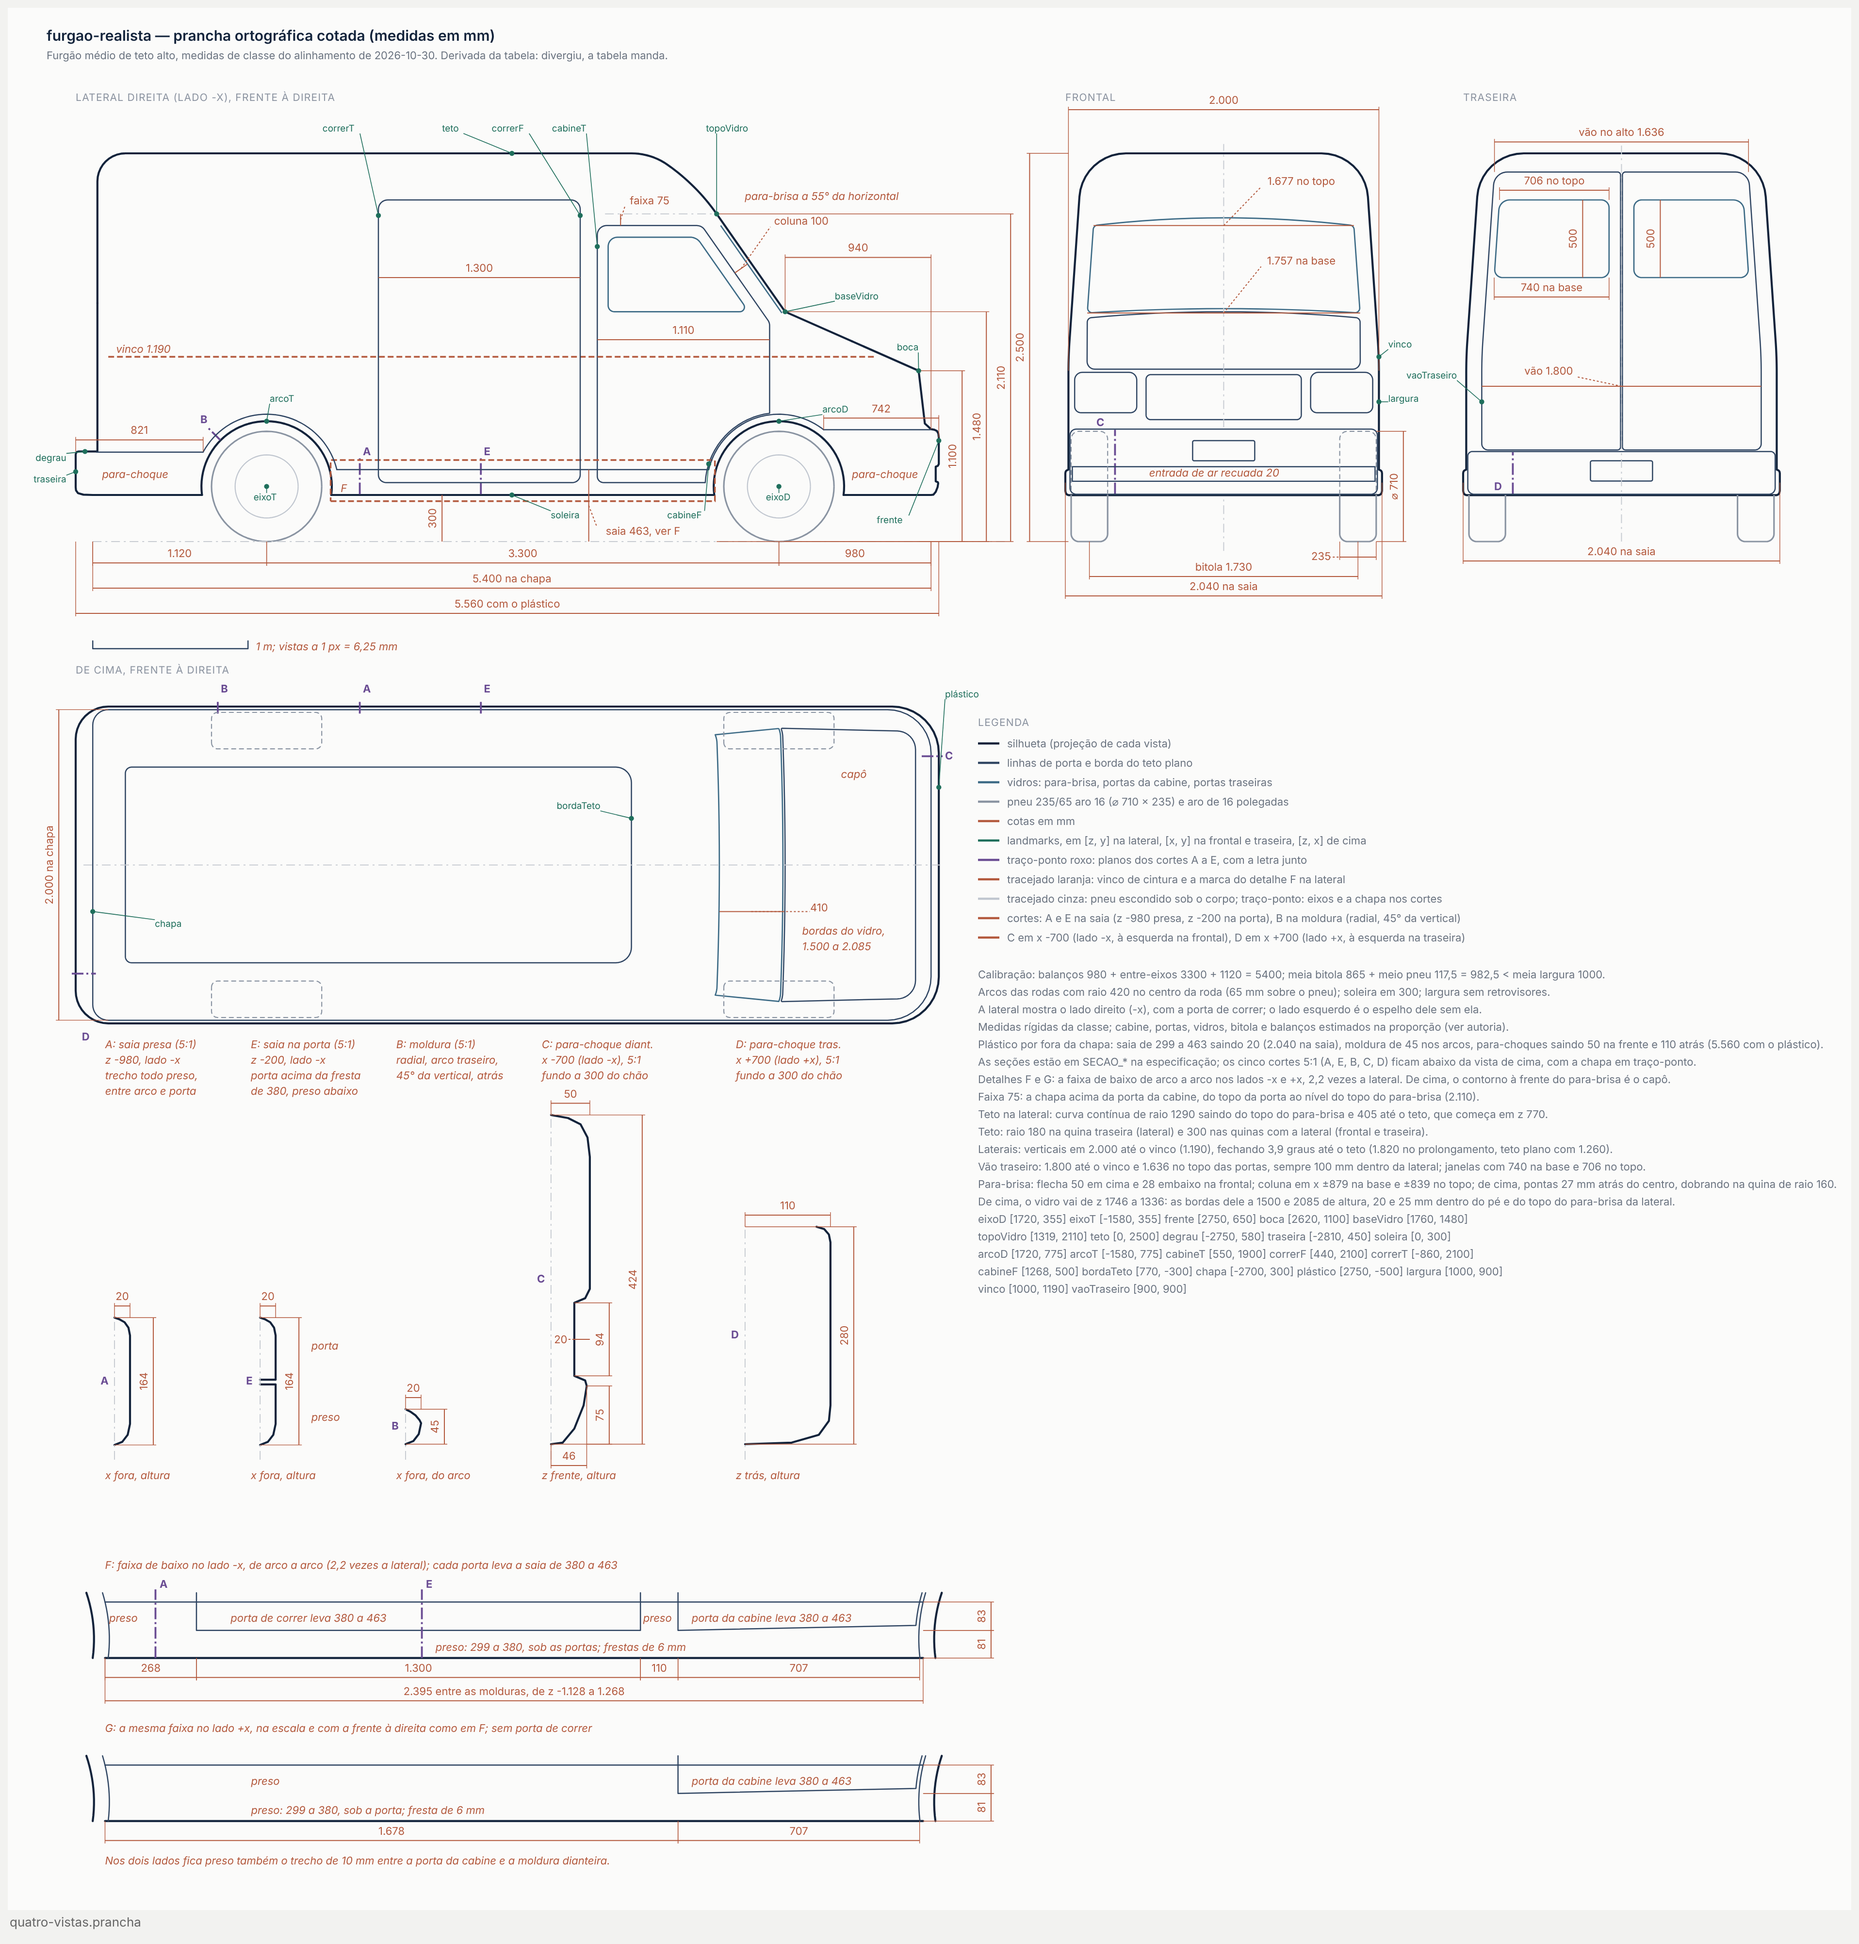
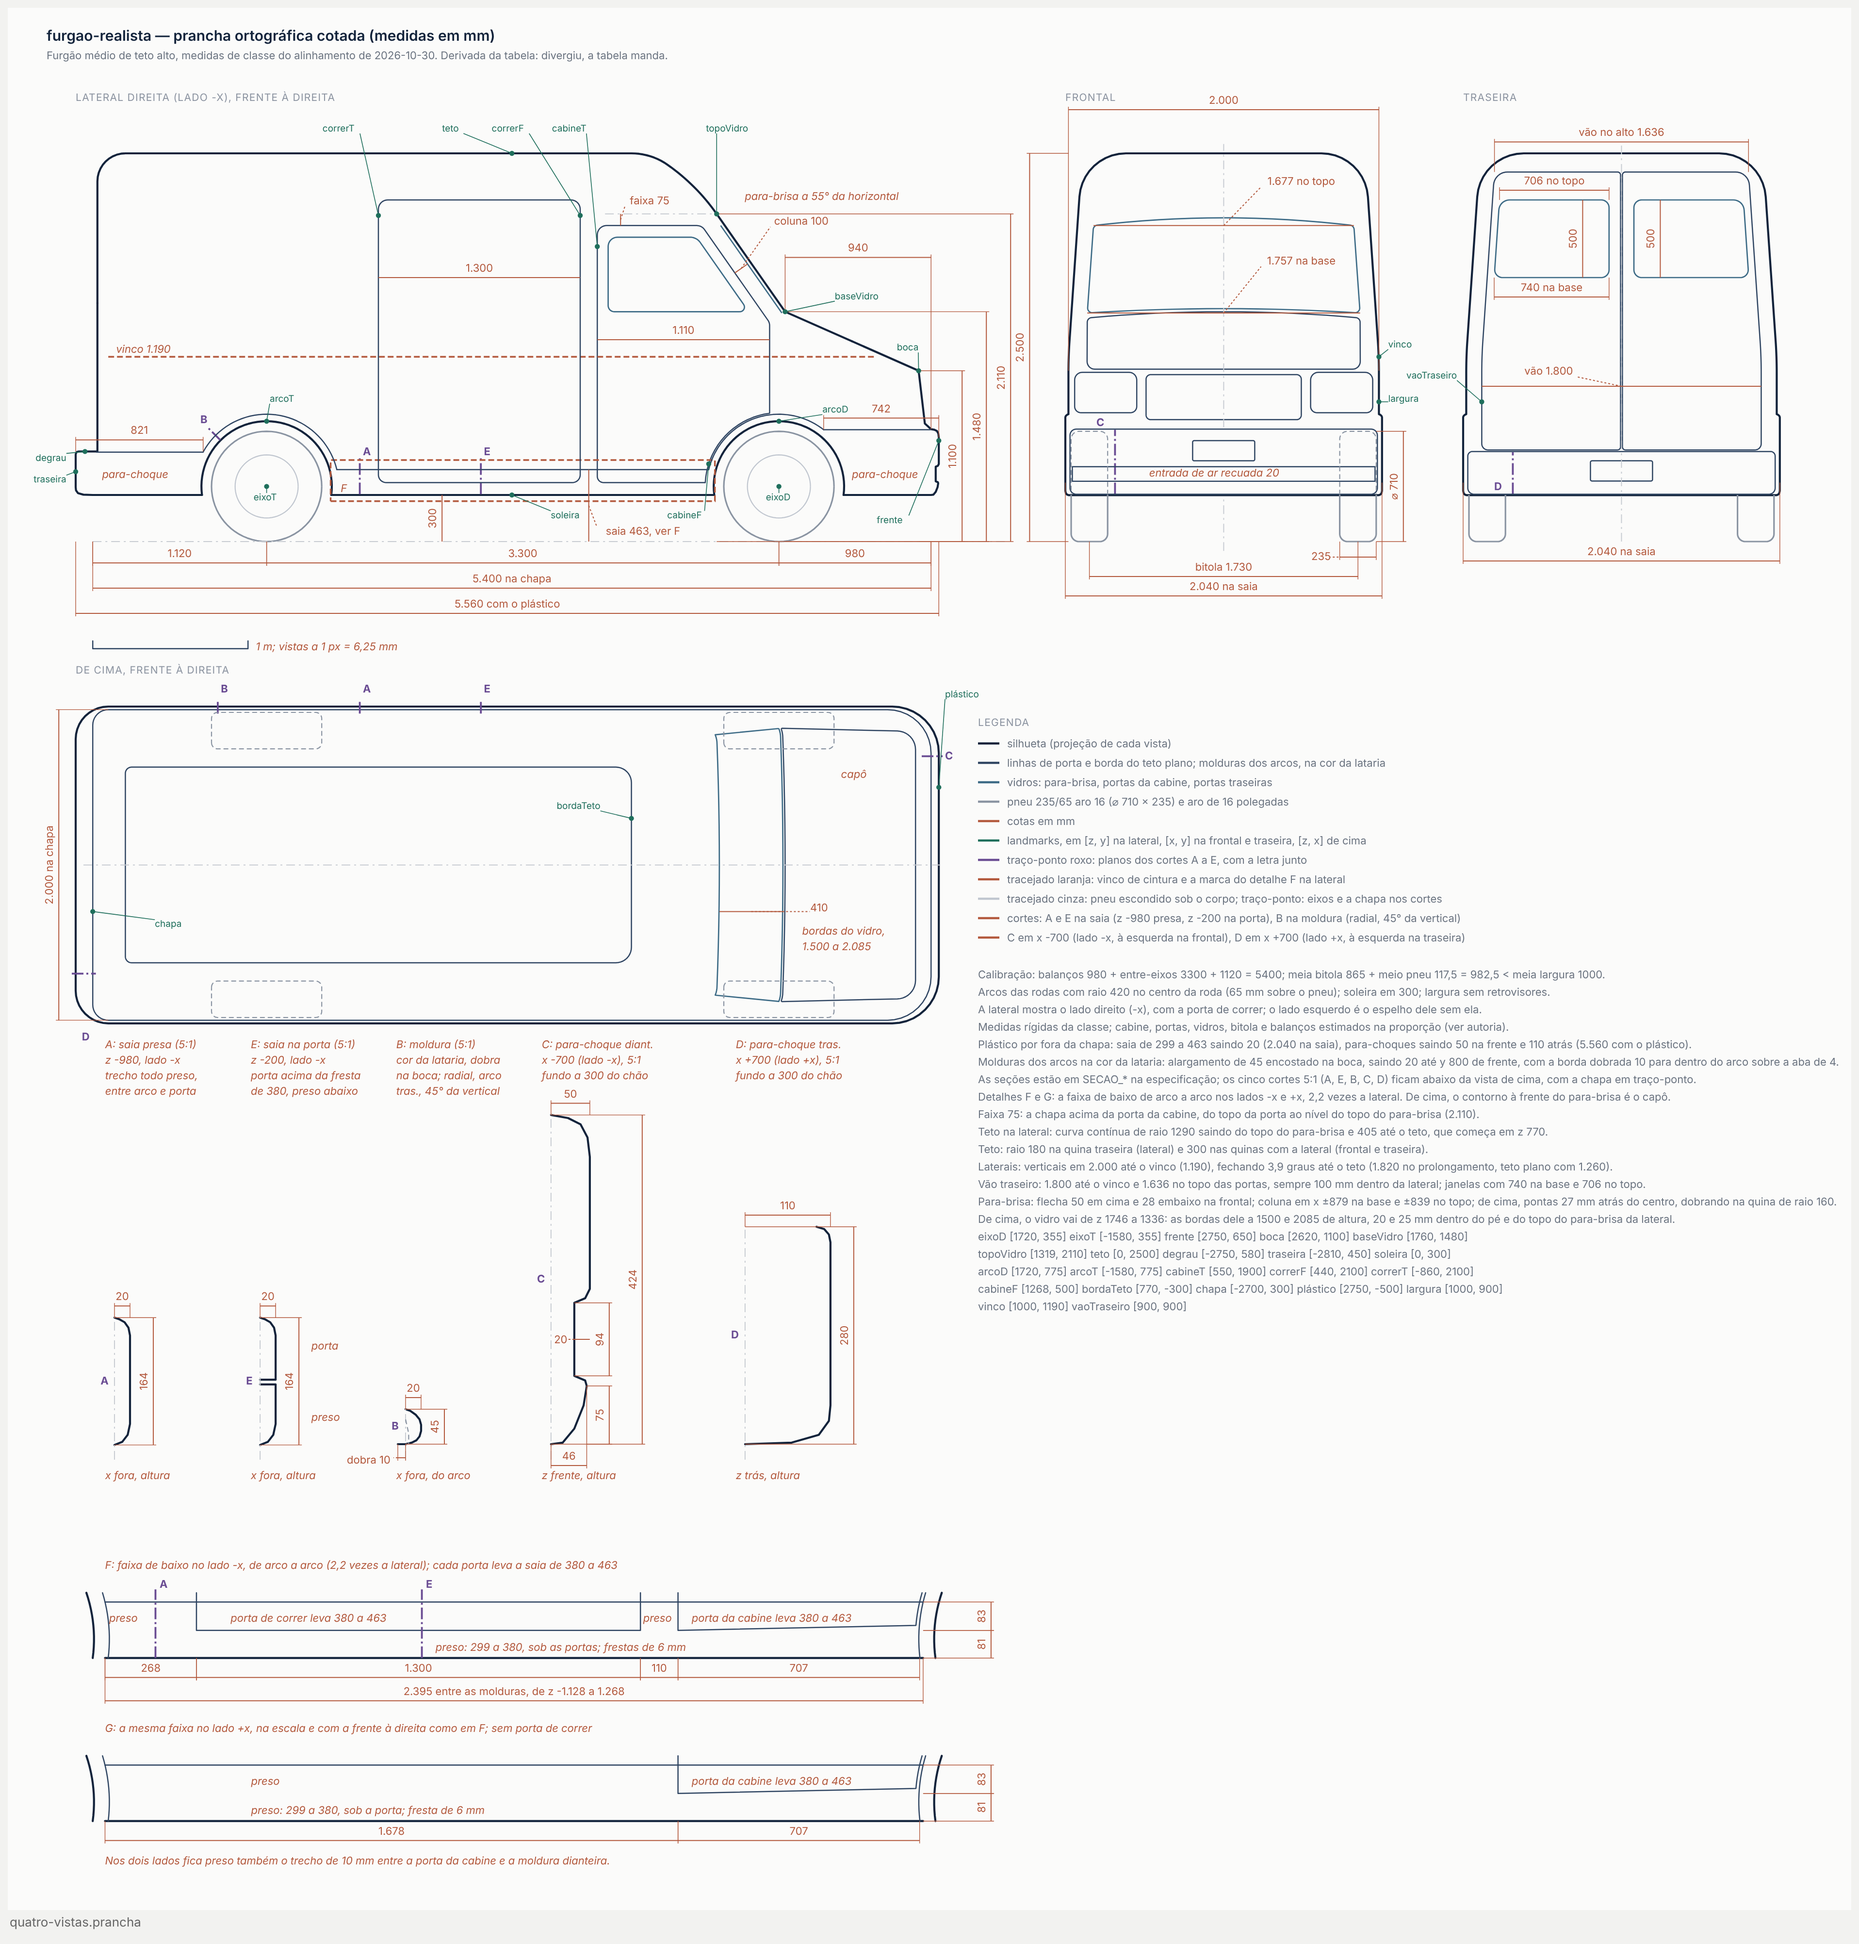
furgao-realista: moldura dos arcos como alargamento na cor da lataria, na prancha
Pela escolha da pessoa no ALINHAMENTO, cada moldura dos arcos deixa de ser plástico escuro afastado da boca. Passa a ser um alargamento na cor da lataria: encosta na boca sem diminuí-la, dobra 10 mm para dentro do arco cobrindo a aba de chapa de 4 mm, tem 45 de largura e sai 20, com a seção arredondada. A especificação confere que a moldura não entra na boca, que tem 45 de largura e 20 de saída, que passa acima da aba e que a borda dobra. O corte B cota a dobra e desenha a aba em linha escondida.

A frontal e a traseira passam a mostrar a moldura saindo 20 mm por fora da saia até o alto dos arcos, em 800, fechando em 820. A vista de cima já ficava em 1.020 e não mudou. A legenda, as notas, o relatório (que passa a trazer a seção) e o alvo.md registram a mudança.

Claude-Session: https://claude.ai/code/session_015i1y8CrgTgEfwGG2HEX8g8

Changed region(s): [[0.5279, 0.5305, 0.9316, 0.6865], [0.2174, 0.5305, 0.2795, 0.5617]]

diff --git a/procedural/pecas/furgao-realista/referencias/alvo.md b/procedural/pecas/furgao-realista/referencias/alvo.md
@@ -46,11 +46,21 @@ A faixa lateral de plástico vai de 300 a 460 mm do chão, sobre a parte de baix
 
 ## O plástico de baixo como peça própria, de 2026-11-01
 
-A pessoa escolheu a saia, as molduras dos arcos e os para-choques como peças próprias, com a seção do meio entre três opções desenhadas (ALINHAMENTO.md, "O corpo de baixo" e "Os para-choques"). A lataria aceita fica igual, e o plástico se soma por fora dela. A especificação guarda as três seções como coordenadas em `SECAO_SAIA`, `SECAO_PARACHOQUE_DIANTEIRO` e `SECAO_PARACHOQUE_TRASEIRO`, cada uma como [para fora da chapa, altura] em mm. O relatório repete as seções, e a prancha as desenha num corte em escala 5:1, abaixo da vista de cima, com a chapa tracejada.
+A pessoa escolheu a saia, as molduras dos arcos e os para-choques como peças próprias, com a seção do meio entre três opções desenhadas (ALINHAMENTO.md, "O corpo de baixo" e "Os para-choques"). A lataria aceita fica igual, e o plástico se soma por fora dela; as molduras passaram depois à cor da lataria, como diz o parágrafo da moldura. A especificação guarda as três seções como coordenadas em `SECAO_SAIA`, `SECAO_PARACHOQUE_DIANTEIRO` e `SECAO_PARACHOQUE_TRASEIRO`, cada uma como [para fora da chapa, altura] em mm. O relatório repete as seções, e a prancha as desenha num corte em escala 5:1, abaixo da vista de cima, com a chapa tracejada.
 
 A saia vai de 299 a 463 e sai 20 mm da lateral. A borda de cima é redonda, com cerca de 10 mm de raio, e a de baixo dobra para dentro. De lado, o topo dela fica em 463, entre as molduras dos arcos, a mesma medida da seção.
 
-A moldura de cada arco fica do arco para fora, sem diminuir a boca dele. Ela tem 45 mm de largura, que a pessoa aceitou, e acaba a 10 mm da fresta da porta da cabine (`FOLGA_MOLDURA_FRESTA`), que contorna o arco dianteiro a 55 mm dele. A seção dela, `SECAO_MOLDURA`, é dada como [para fora, distância do arco]: sai 20 mm; a borda do lado do arco dobra para dentro, como a de baixo da saia, e a de fora é redonda, como a de cima. A especificação confere a folga da fresta e a de pelo menos 100 mm da moldura traseira até a porta de correr.
+A moldura de cada arco é um alargamento na cor da lataria, escolha da pessoa ao ver a etapa 3 pronta (ALINHAMENTO.md, fim de "O corpo de baixo"). Ela deixou de ser plástico escuro afastado 5 mm da boca. Agora encosta na boca do arco sem diminuí-la, e a borda do lado do arco dobra 10 mm para dentro dele, por trás da face da chapa, cobrindo a aba de chapa de 4 mm. Tem 45 mm de largura, para acabar a 10 mm da fresta da porta da cabine (`FOLGA_MOLDURA_FRESTA`), que contorna o arco dianteiro a 55 mm dele, e sai 20 mm, com a seção arredondada de uma borda rolada de para-lama. A saia e os para-choques escuros terminam nela. A seção, `SECAO_MOLDURA`, é dada como [para fora da chapa, distância da boca do arco]: [-10, 0], [0, 0], [8, 2], [14, 5], [18, 10], [20, 17], [20, 25], [18, 32], [13, 38], [6, 43], [0, 45]. Os pontos com "para fora" negativo são a dobra.
+
+A especificação confere:
+- que nenhum ponto entra na boca;
+- a largura de 45 e a saída de 20;
+- que a moldura passa pelo menos 2 mm acima da aba nos 32 mm dela;
+- que a borda dobra para dentro;
+- a folga da fresta;
+- os 100 mm, pelo menos, da moldura traseira até a porta de correr.
+
+O corte B cota a dobra e desenha a aba em linha escondida. De frente e de trás, a silhueta passou a mostrar a moldura saindo 20 mm por fora da saia até o alto dos arcos, em y 800, fechando na chapa em 820; antes ela ia de 463 para dentro e dava 20 mm de desvio contra o modelo. De cima a silhueta já ficava em ±1.020 ao longo de todo o comprimento, e nada mudou.
 
 As portas descem até 380 e a saia vai de 299 a 463, então a saia passa sobre os 80 mm de baixo de cada porta. A pessoa escolheu, em 2026-11-01, manter a base das portas em 380 e cortar a saia pelas frestas. Cada porta leva o seu trecho de saia, de 380 a 463, que abre com ela: as duas portas da cabine e a de correr, esta só no lado -x. Ficam presos à carroceria a parte de 299 a 380 sob as portas e os trechos entre as portas e os arcos. Entre os arcos, no lado -x, os trechos são cinco:
 - de -1.127 a -860, preso;
